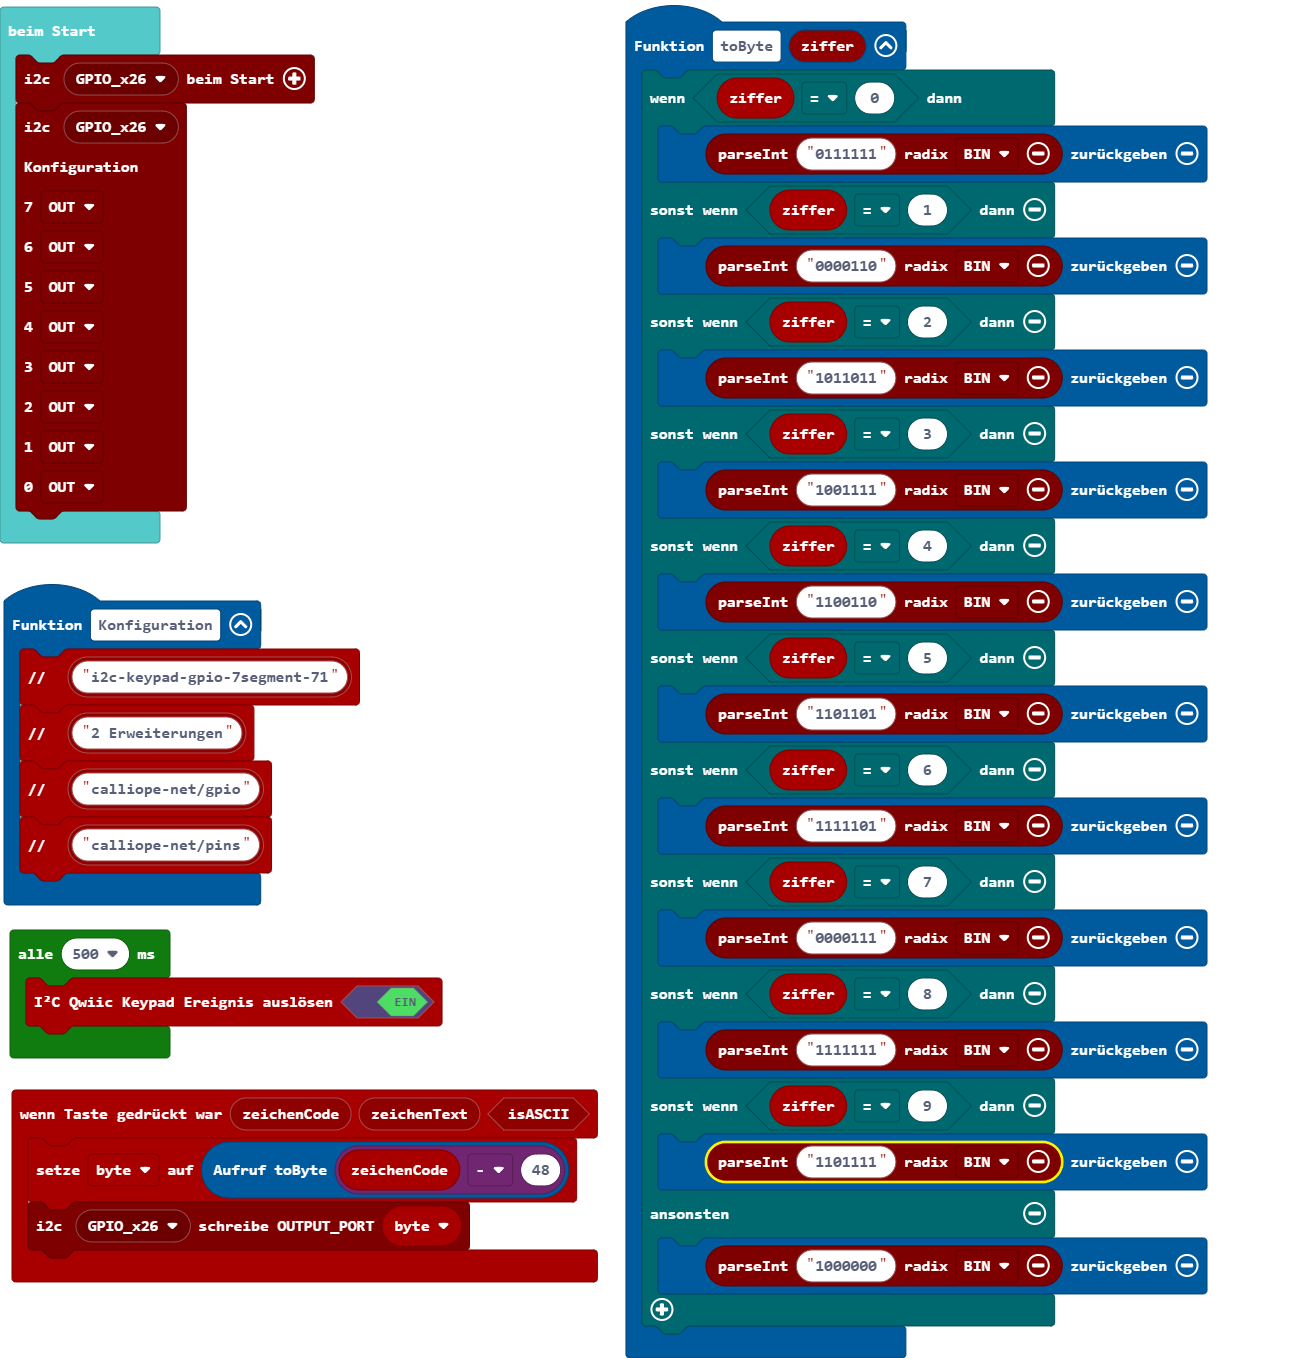
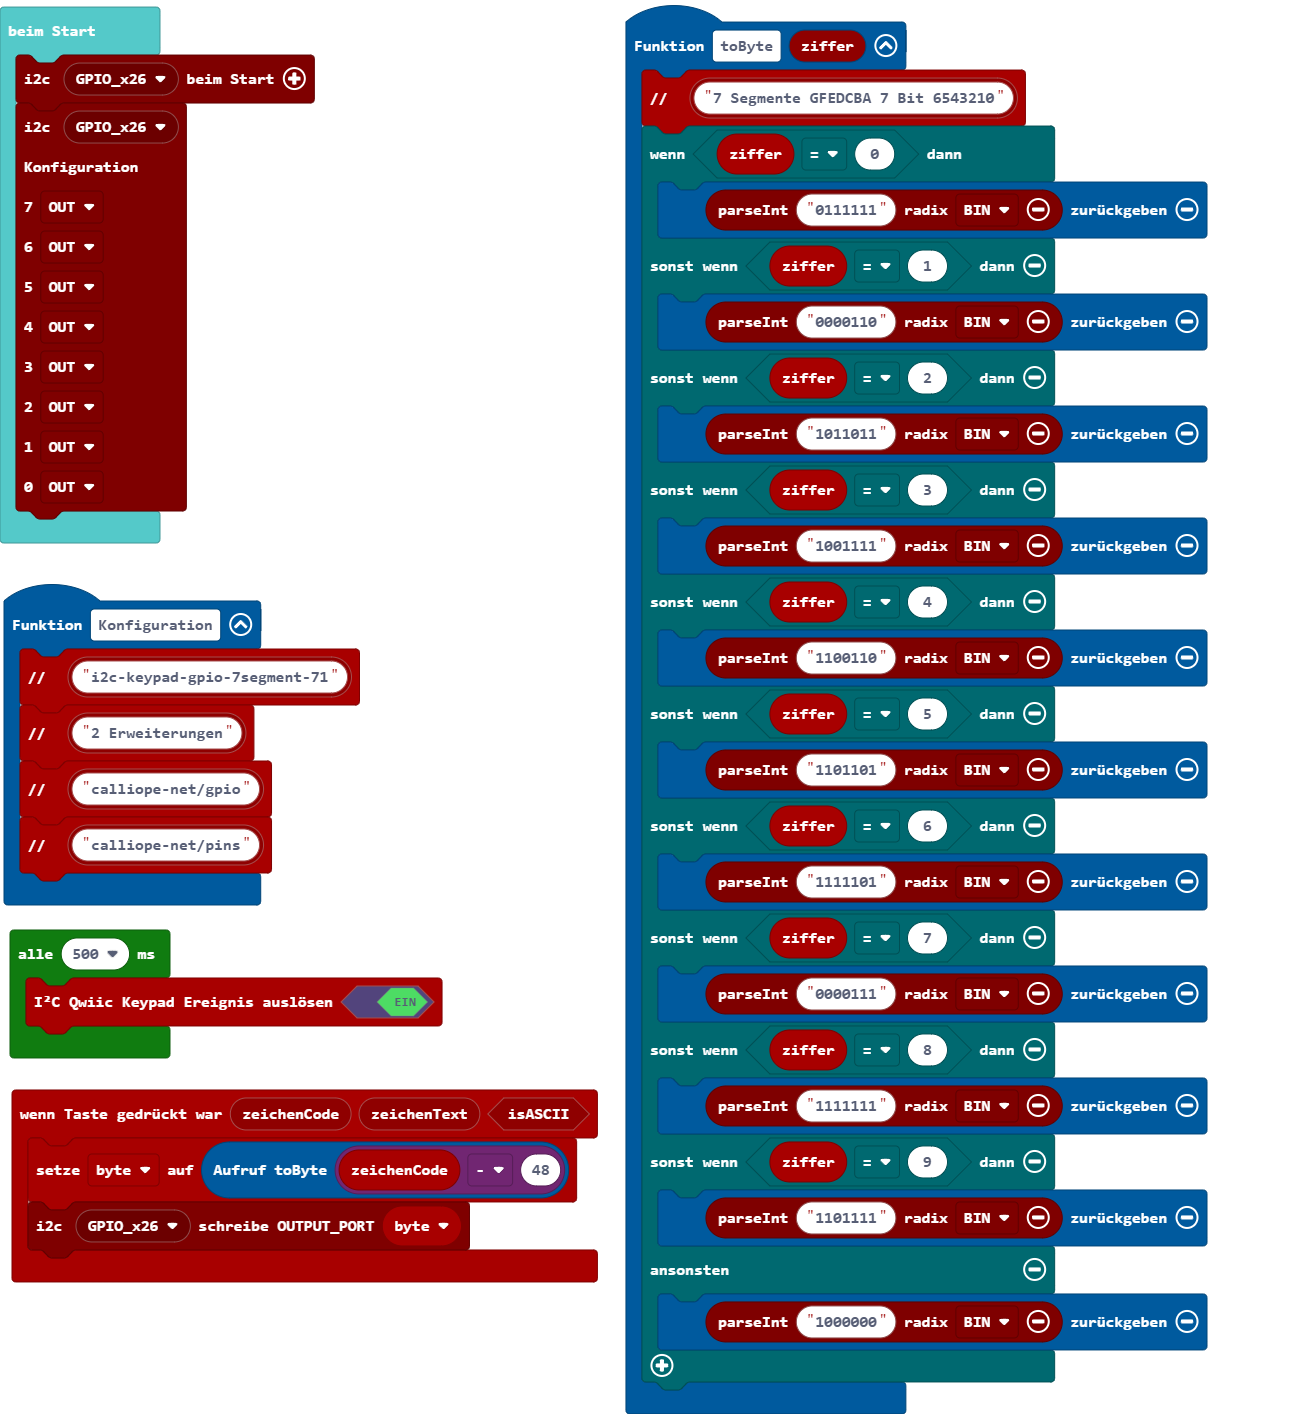
Aktualisiere main.blocks, main.ts

diff --git a/main.ts b/main.ts
@@ -1,4 +1,5 @@
 function toByte (ziffer: number) {
+    pins.comment(pins.pins_text("7 Segmente GFEDCBA 7 Bit 6543210"))
     if (ziffer == 0) {
         return qwiicgpio.parseint("0111111", qwiicgpio.eRadix.BIN)
     } else if (ziffer == 1) {
